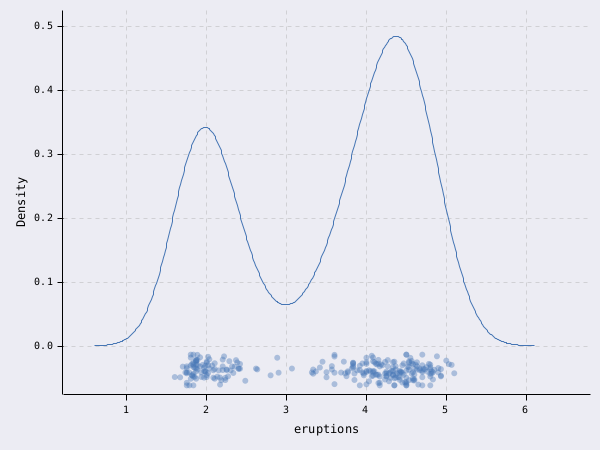
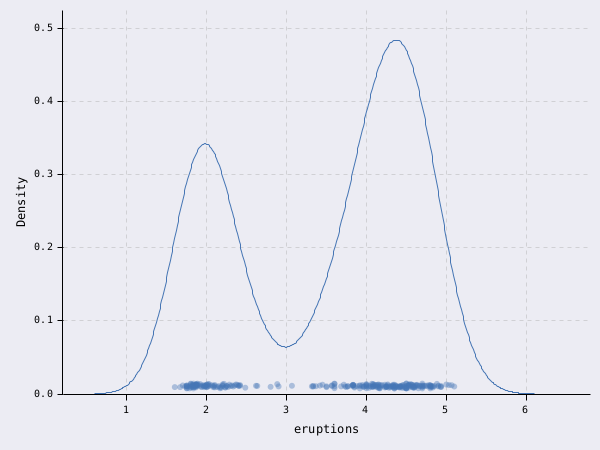
lattice - notebook - part 1 - review2

diff --git a/docs/galleries.lattice.html b/docs/galleries.lattice.html
@@ -587,21 +587,20 @@ pre > code.sourceCode > span > a:first-child::before { text-decoration: underlin
 </section>
 <section id="fig-2.6-dot-plot" class="level3" data-number="9.2.6">
 <h3 data-number="9.2.6" class="anchored" data-anchor-id="fig-2.6-dot-plot"><span class="header-section-number">9.2.6</span> Fig 2.6 Dot plot</h3>
-<p>Barley yield of each variety at six sites, the two years in two colours and shapes. Sites, varieties and years keep R’s factor order (<code>nu/levels</code>); lattice fills panels from the bottom, so the sites run top-down reversed.</p>
+<p>Barley yield of each variety at six sites, the two years in two shapes. Sites, varieties and years keep R’s factor order (<code>nu/levels</code>); lattice fills panels from the bottom, so the sites run top-down reversed.</p>
 <p>Source: <a href="http://lmdvr.r-forge.r-project.org/figures/figures.html?chapter=02;figure=02_06;theme=stdColor;code=right">Lattice Fig 2.6</a>. Data: Barley yields, Minnesota 1931-1932, R lattice package <code>barley</code> (Immer et al.&nbsp;1934; Fisher 1971; Cleveland 1993); licence: GPL (&gt;= 2) (lattice).</p>
 <div class="sourceClojure">
 <div class="code-copy-outer-scaffold"><div class="sourceCode" id="cb27"><pre class="sourceCode clojure code-with-copy"><code class="sourceCode clojure"><span id="cb27-1"><a href="#cb27-1" aria-hidden="true" tabindex="-1"></a>(plot/render-image</span>
 <span id="cb27-2"><a href="#cb27-2" aria-hidden="true" tabindex="-1"></a> {<span class="at">:data</span> barley</span>
-<span id="cb27-3"><a href="#cb27-3" aria-hidden="true" tabindex="-1"></a>  <span class="at">:mapping</span> {<span class="at">:x</span> <span class="at">:yield</span> <span class="at">:y</span> <span class="at">:variety</span> <span class="at">:color</span> <span class="at">:year</span> <span class="at">:shape</span> <span class="at">:year</span> <span class="at">:facet</span> <span class="at">:site</span>}</span>
+<span id="cb27-3"><a href="#cb27-3" aria-hidden="true" tabindex="-1"></a>  <span class="at">:mapping</span> {<span class="at">:x</span> <span class="at">:yield</span> <span class="at">:y</span> <span class="at">:variety</span> <span class="at">:shape</span> <span class="at">:year</span> <span class="at">:facet</span> <span class="at">:site</span>}</span>
 <span id="cb27-4"><a href="#cb27-4" aria-hidden="true" tabindex="-1"></a>  <span class="at">:scales</span> {<span class="at">:y</span> {<span class="at">:domain</span> (nu/levels <span class="at">:barley</span> <span class="at">:variety</span>)}</span>
 <span id="cb27-5"><a href="#cb27-5" aria-hidden="true" tabindex="-1"></a>           <span class="at">:facet</span> {<span class="at">:domain</span> (<span class="kw">vec</span> (<span class="kw">rseq</span> (nu/levels <span class="at">:barley</span> <span class="at">:site</span>)))}</span>
-<span id="cb27-6"><a href="#cb27-6" aria-hidden="true" tabindex="-1"></a>           <span class="at">:color</span> {<span class="at">:type</span> <span class="at">:categorical</span> <span class="at">:domain</span> (nu/levels <span class="at">:barley</span> <span class="at">:year</span>)}</span>
-<span id="cb27-7"><a href="#cb27-7" aria-hidden="true" tabindex="-1"></a>           <span class="at">:shape</span> {<span class="at">:domain</span> (nu/levels <span class="at">:barley</span> <span class="at">:year</span>)}}</span>
-<span id="cb27-8"><a href="#cb27-8" aria-hidden="true" tabindex="-1"></a>  <span class="at">:charts</span> [(chart/scatter)]</span>
-<span id="cb27-9"><a href="#cb27-9" aria-hidden="true" tabindex="-1"></a>  <span class="at">:facets</span> {<span class="at">:columns</span> <span class="dv">1</span>}</span>
-<span id="cb27-10"><a href="#cb27-10" aria-hidden="true" tabindex="-1"></a>  <span class="at">:theme</span> {<span class="at">:text</span> {<span class="at">:tick-label</span> {<span class="at">:size</span> <span class="dv">8</span>}}}</span>
-<span id="cb27-11"><a href="#cb27-11" aria-hidden="true" tabindex="-1"></a>  <span class="at">:labels</span> {<span class="at">:x</span> <span class="st">"yield"</span> <span class="at">:y</span> <span class="va">nil</span>}}</span>
-<span id="cb27-12"><a href="#cb27-12" aria-hidden="true" tabindex="-1"></a> {<span class="at">:width</span> <span class="dv">600</span> <span class="at">:height</span> <span class="dv">800</span>})</span></code></pre></div><button title="Copy to Clipboard" class="code-copy-button"><i class="bi"></i></button></div>
+<span id="cb27-6"><a href="#cb27-6" aria-hidden="true" tabindex="-1"></a>           <span class="at">:shape</span> {<span class="at">:domain</span> (nu/levels <span class="at">:barley</span> <span class="at">:year</span>)}}</span>
+<span id="cb27-7"><a href="#cb27-7" aria-hidden="true" tabindex="-1"></a>  <span class="at">:charts</span> [(chart/scatter)]</span>
+<span id="cb27-8"><a href="#cb27-8" aria-hidden="true" tabindex="-1"></a>  <span class="at">:facets</span> {<span class="at">:columns</span> <span class="dv">1</span>}</span>
+<span id="cb27-9"><a href="#cb27-9" aria-hidden="true" tabindex="-1"></a>  <span class="at">:theme</span> {<span class="at">:text</span> {<span class="at">:tick-label</span> {<span class="at">:size</span> <span class="dv">8</span>}}}</span>
+<span id="cb27-10"><a href="#cb27-10" aria-hidden="true" tabindex="-1"></a>  <span class="at">:labels</span> {<span class="at">:x</span> <span class="st">"yield"</span> <span class="at">:y</span> <span class="va">nil</span>}}</span>
+<span id="cb27-11"><a href="#cb27-11" aria-hidden="true" tabindex="-1"></a> {<span class="at">:width</span> <span class="dv">600</span> <span class="at">:height</span> <span class="dv">800</span>})</span></code></pre></div><button title="Copy to Clipboard" class="code-copy-button"><i class="bi"></i></button></div>
 </div>
 <div class="clay-image">
 <p><img src="galleries.lattice_files/image9.png" class="img-fluid"></p>
@@ -706,13 +705,13 @@ pre > code.sourceCode > span > a:first-child::before { text-decoration: underlin
 <h2 data-number="9.3" class="anchored" data-anchor-id="chapter-3---visualizing-univariate-distributions"><span class="header-section-number">9.3</span> Chapter 3 - Visualizing Univariate Distributions</h2>
 <section id="fig-3.1-kernel-density" class="level3" data-number="9.3.1">
 <h3 data-number="9.3.1" class="anchored" data-anchor-id="fig-3.1-kernel-density"><span class="header-section-number">9.3.1</span> Fig 3.1 Kernel density</h3>
-<p>Old Faithful eruption times: a Gaussian kernel density, the values as jittered points under it.</p>
+<p>Old Faithful eruption times: a Gaussian kernel density, the values as jittered points along the bottom edge.</p>
 <p>Source: <a href="http://lmdvr.r-forge.r-project.org/figures/figures.html?chapter=03;figure=03_01;theme=stdColor;code=right">Lattice Fig 3.1</a>. Data: Old Faithful geyser eruptions, R datasets package <code>faithful</code> (Härdle 1991; Azzalini &amp; Bowman 1990); licence: Part of R (GPL-2 | GPL-3).</p>
 <div class="sourceClojure">
 <div class="code-copy-outer-scaffold"><div class="sourceCode" id="cb34"><pre class="sourceCode clojure code-with-copy"><code class="sourceCode clojure"><span id="cb34-1"><a href="#cb34-1" aria-hidden="true" tabindex="-1"></a>(plot/render-image</span>
 <span id="cb34-2"><a href="#cb34-2" aria-hidden="true" tabindex="-1"></a> {<span class="at">:data</span> faithful</span>
 <span id="cb34-3"><a href="#cb34-3" aria-hidden="true" tabindex="-1"></a>  <span class="at">:mapping</span> {<span class="at">:x</span> <span class="at">:eruptions</span>}</span>
-<span id="cb34-4"><a href="#cb34-4" aria-hidden="true" tabindex="-1"></a>  <span class="at">:charts</span> [(chart/density) (chart/stripplot {<span class="at">:place</span> <span class="at">:bottom</span> <span class="at">:rng</span> (r/rng <span class="at">:mersenne</span> <span class="dv">31</span>)})]</span>
+<span id="cb34-4"><a href="#cb34-4" aria-hidden="true" tabindex="-1"></a>  <span class="at">:charts</span> [(chart/density) (chart/stripplot {<span class="at">:place</span> <span class="at">:edge</span> <span class="at">:thickness</span> <span class="dv">16</span> <span class="at">:jitter</span> <span class="fl">0.3</span> <span class="at">:rng</span> (r/rng <span class="at">:mersenne</span> <span class="dv">31</span>)})]</span>
 <span id="cb34-5"><a href="#cb34-5" aria-hidden="true" tabindex="-1"></a>  <span class="at">:labels</span> {<span class="at">:x</span> <span class="st">"eruptions"</span> <span class="at">:y</span> <span class="st">"Density"</span>}}</span>
 <span id="cb34-6"><a href="#cb34-6" aria-hidden="true" tabindex="-1"></a> {<span class="at">:width</span> <span class="dv">600</span> <span class="at">:height</span> <span class="dv">450</span>})</span></code></pre></div><button title="Copy to Clipboard" class="code-copy-button"><i class="bi"></i></button></div>
 </div>
@@ -1495,7 +1494,7 @@ pre > code.sourceCode > span > a:first-child::before { text-decoration: underlin
 <div class="code-copy-outer-scaffold"><div class="sourceCode" id="cb85"><pre class="sourceCode clojure code-with-copy"><code class="sourceCode clojure"><span id="cb85-1"><a href="#cb85-1" aria-hidden="true" tabindex="-1"></a>(plot/render-image</span>
 <span id="cb85-2"><a href="#cb85-2" aria-hidden="true" tabindex="-1"></a> {<span class="at">:data</span> (<span class="kw">mapv</span> (<span class="kw">fn</span> [row] {<span class="at">:days</span> (<span class="at">:days</span> row) <span class="at">:ssc</span> (m/asinh (<span class="at">:ssc-h</span> row)) <span class="at">:fl2</span> (m/asinh (<span class="at">:fl2-h</span> row))}) gvhd10)</span>
 <span id="cb85-3"><a href="#cb85-3" aria-hidden="true" tabindex="-1"></a>  <span class="at">:mapping</span> {<span class="at">:x</span> <span class="at">:fl2</span> <span class="at">:y</span> <span class="at">:ssc</span> <span class="at">:facet</span> <span class="at">:days</span>}</span>
-<span id="cb85-4"><a href="#cb85-4" aria-hidden="true" tabindex="-1"></a>  <span class="at">:scales</span> {<span class="at">:x</span> {<span class="at">:domain</span> [<span class="dv">0</span> <span class="fl">10.5</span>]} <span class="at">:color</span> {<span class="at">:range</span> [[<span class="dv">235</span> <span class="dv">235</span> <span class="dv">235</span>] [<span class="dv">0</span> <span class="dv">0</span> <span class="dv">0</span>]] <span class="at">:transform</span> <span class="at">:sqrt</span>}}</span>
+<span id="cb85-4"><a href="#cb85-4" aria-hidden="true" tabindex="-1"></a>  <span class="at">:scales</span> {<span class="at">:x</span> {<span class="at">:domain</span> [<span class="dv">0</span> <span class="fl">10.5</span>]} <span class="at">:color</span> {<span class="at">:range</span> [[<span class="dv">200</span> <span class="dv">200</span> <span class="dv">200</span>] [<span class="dv">0</span> <span class="dv">0</span> <span class="dv">0</span>]] <span class="at">:transform</span> <span class="at">:sqrt</span>}}</span>
 <span id="cb85-5"><a href="#cb85-5" aria-hidden="true" tabindex="-1"></a>  <span class="at">:charts</span> [(chart/bin2d {<span class="at">:bins</span> <span class="dv">30</span>})]</span>
 <span id="cb85-6"><a href="#cb85-6" aria-hidden="true" tabindex="-1"></a>  <span class="at">:facets</span> {<span class="at">:columns</span> <span class="dv">4</span>}</span>
 <span id="cb85-7"><a href="#cb85-7" aria-hidden="true" tabindex="-1"></a>  <span class="at">:aspect</span> <span class="at">:iso</span></span>
